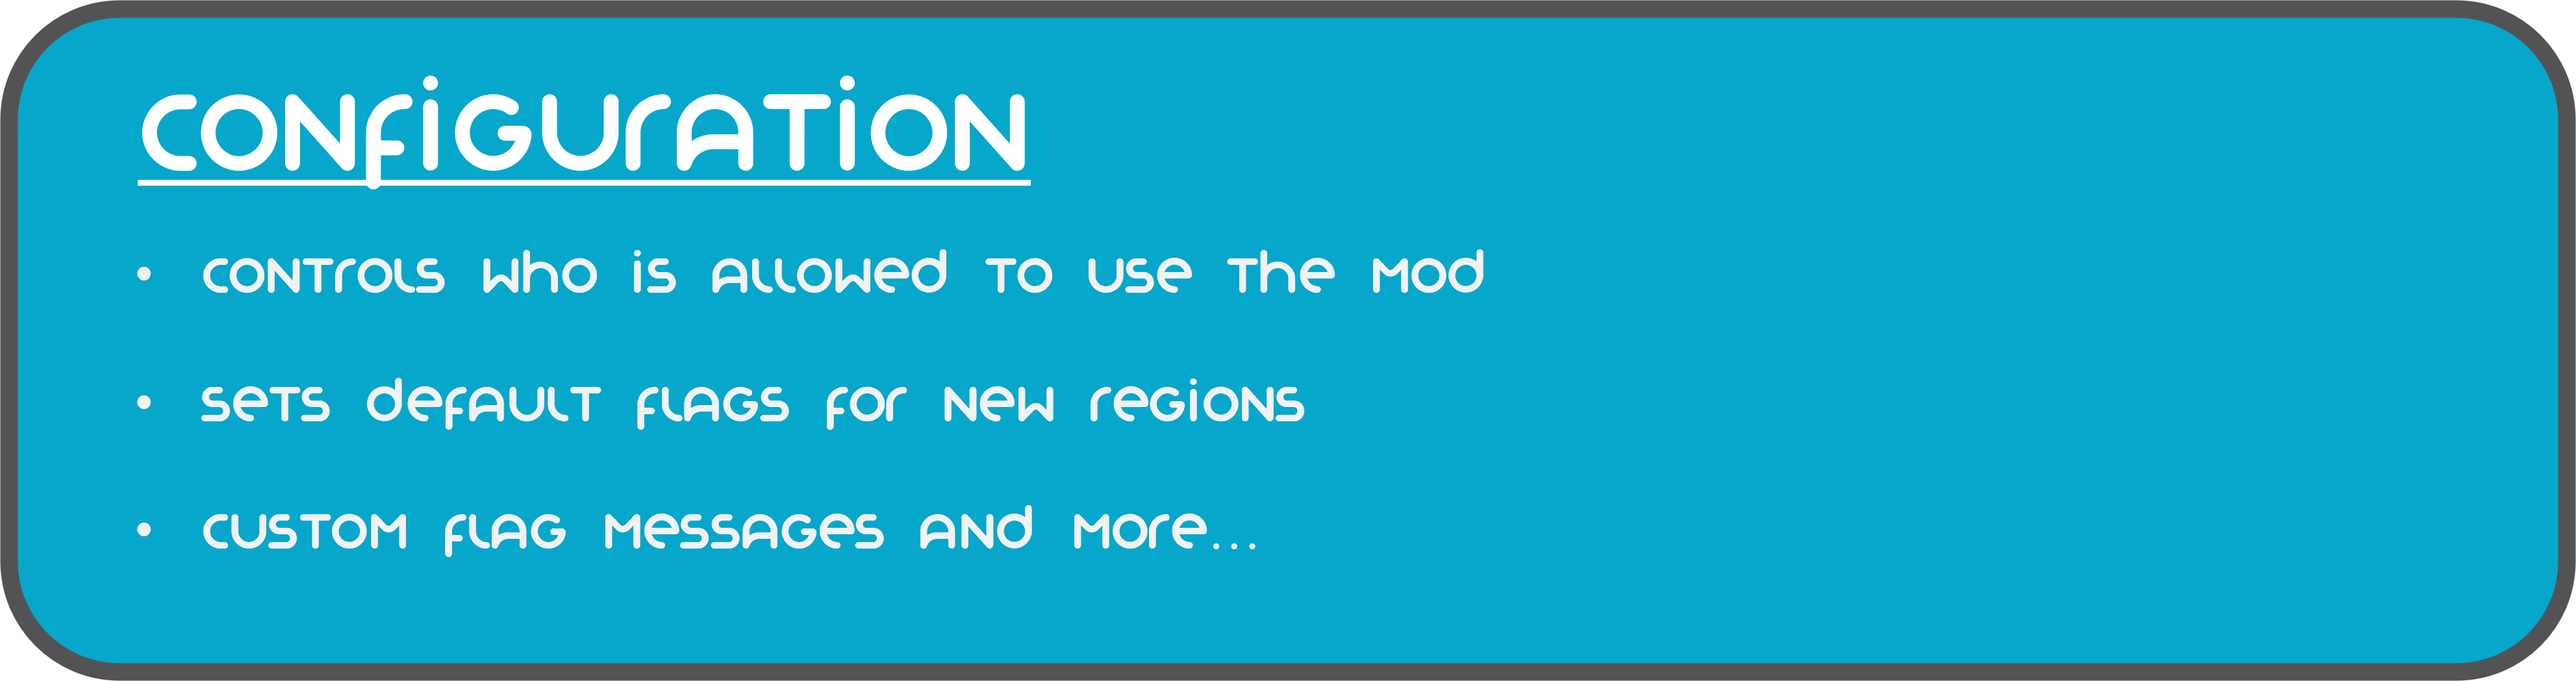
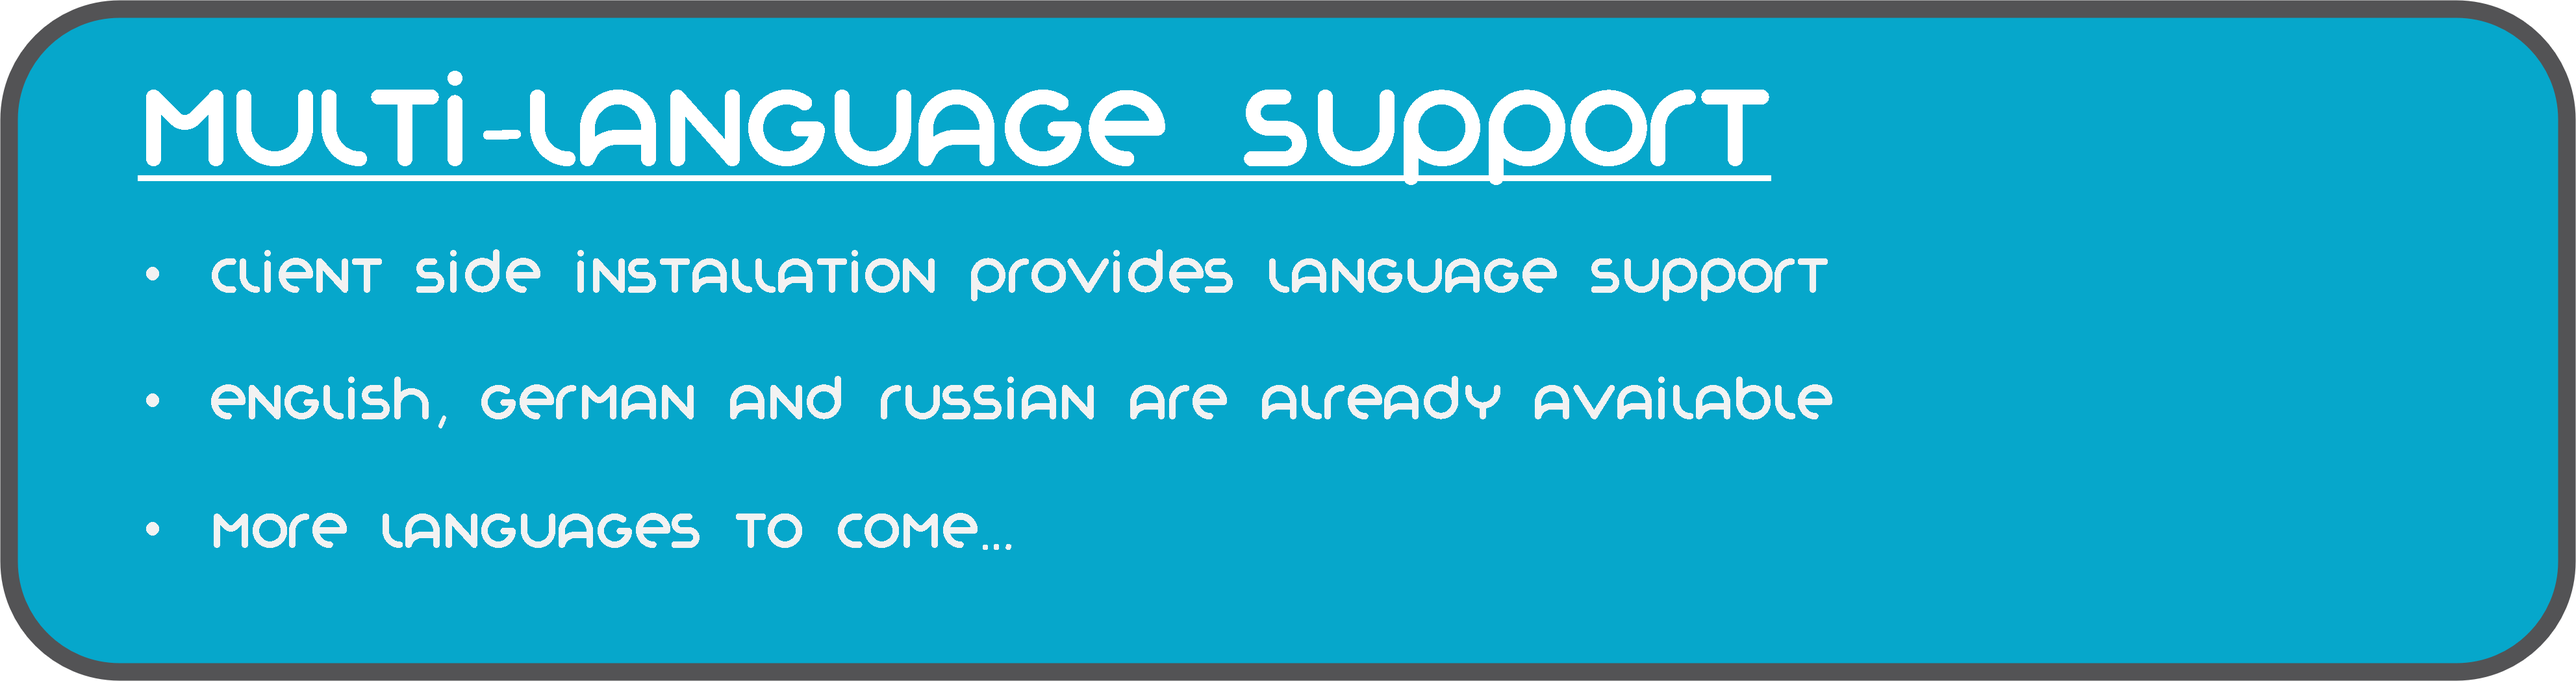
update mod feature images

diff --git a/web-resources/mod-description.md b/web-resources/mod-description.md
@@ -1,8 +1,11 @@
 # Yet Another World Protector
 
-Yet Another World Protector (YAWP) is _the_ admin tool to protect your minecraft server!
+Yet Another World Protector (YAWP) is _the_ admin tool to protect your minecraft server! Its available for both, (Neo-)
+Forge and Fabric.
 
-It allows admins (and permitted players) to protect their creations against various events/actions of players, mobs and
+YAWP designed to be used on dedicated servers, but can also be used in single player worlds and worlds opened to LAN.
+It allows admins (and players with assigned permission) to protect their creations against various events/actions of
+players, mobs and
 the environment.
 
 Create regions for your builds and apply region flags to protect them.
@@ -13,6 +16,8 @@ the [WorldGuard](https://dev.bukkit.org/projects/worldguard) plugin.
 
 Join our discord if you have any questions or suggestions: [YAWP Discord](https://discord.gg/d7hArKCUtm)
 
+*** 
+
 ![](https://raw.githubusercontent.com/Z0rdak/Yet-Another-World-Protector/online-pages/web-resources/yawp-feature-1.png)
 
 ***The mod is currently in its beta state, with many features not yet implemented but to come. These features will
@@ -22,6 +27,7 @@ This mod will be released for Minecraft versions 1.16.5+. If you are living in t
 for Minecraft 1.12.2, I suggest looking into
 using [WorldDefender](https://www.curseforge.com/minecraft/mc-mods/world-defender).
 
+*** 
 ![](https://raw.githubusercontent.com/Z0rdak/Yet-Another-World-Protector/online-pages/web-resources/yawp-feature-3.png "Region types")
 
 In YAWP there are three different kinds of regions to protect your server:
@@ -46,7 +52,7 @@ They can't be created manually. They are in fact automatically generated with ea
 Region for the overworld is created when the server is created.
 
 The following Dimensional Regions are created whenever a player travels to a new dimension, thus creating the new
-dimension with their respective Dimensional Region.
+dimension with their respective Dimensional Region. Modded dimensions are supported as well.
 
 ## Local Regions
 
@@ -62,8 +68,10 @@ To create a Local Regions you will need to have the permission of the parent reg
 by marking the area with a RegionMarker and executing the corresponding command or by just using a command without the
 RegionMarker.
 
-For now the area of a region can only be defined as in a cuboid shape, but I am planning to add more shapes for region
-areas in future updates.
+For now the area of a region can be defined as in a cuboid or spherical shape, but I am planning to add more shapes for
+region areas in future updates.
+
+***
 
 ## Properties of regions
 
@@ -81,6 +89,8 @@ configuration. For more information, visit the wiki.
 
 ![](https://raw.githubusercontent.com/Z0rdak/Yet-Another-World-Protector/online-pages/web-resources/yawp-feature-4.png "Region hierarchy")
 
+***
+
 TBD
 
 ![](https://raw.githubusercontent.com/Z0rdak/Yet-Another-World-Protector/online-pages/web-resources/yawp-feature-5.png "Region groups")
@@ -92,6 +102,8 @@ Owners and Members can be individual players or a [team](https://minecraft.fando
 
 Groups allow you assign specific region permissions to different players and teams. Currently, there are only two
 default groups: **owners** and **members**.
+
+***
 
 ![](https://raw.githubusercontent.com/Z0rdak/Yet-Another-World-Protector/online-pages/web-resources/yawp-feature-6.png "")
 
@@ -105,10 +117,19 @@ update, so you can define your own groups and permissions.
 
 If you have trouble with setting up regions, visit the discord for help.
 
+*** 
+
 ![](https://raw.githubusercontent.com/Z0rdak/Yet-Another-World-Protector/online-pages/web-resources/yawp-feature-7.png "")
 
-You can add rules to Regions with flags. If the flag is defined, it prevents the defined action associated with the
-flag.
+Flags are the core of the region protection system. They define which actions are allowed or denied in a region. Flags
+can be set to
+
+- **Allowed**, to allow the corresponding action,
+- **Denied**, to deny the corresponding action,
+- **Disabled**, to disable the specific flag for flag checks.
+
+Child regions inherit the flags from their parent regions. It is further possible to override the flag state for child
+regions by setting the **override** property of the flag of the parent region accordingly.
 
 See the [Flags](https://github.com/Z0rdak/Yet-Another-World-Protector/wiki/Flags) page for more details about the
 different flags.
@@ -118,6 +139,8 @@ here: [Flag suggestions](https://github.com/Z0rdak/Yet-Another-World-Protector/i
 
 There will also be more complex flags in the future. Like *ListFlag* which will allow you to define a list of allowed
 blocks/entities/.. which are forbidden in the context of a flag.
+
+***
 
 ![](https://raw.githubusercontent.com/Z0rdak/Yet-Another-World-Protector/online-pages/web-resources/yawp-feature-2.png "Interactive CLI")
 
@@ -129,11 +152,18 @@ blocks/entities/.. which are forbidden in the context of a flag.
 
 ![](https://raw.githubusercontent.com/Z0rdak/Yet-Another-World-Protector/online-pages/web-resources/local-interactive-cli-info.png)
 
+*** 
+
 ![](https://raw.githubusercontent.com/Z0rdak/Yet-Another-World-Protector/online-pages/web-resources/yawp-feature-8.png)
 
 The commands of mod are also designed to be used by the server console and can be executed by command blocks.
 
 This allows you to automate region setups, add/remove players, enable or disable regions, etc.
+***
+
+API
+
+***
 
 ![](https://raw.githubusercontent.com/Z0rdak/Yet-Another-World-Protector/online-pages/web-resources/yawp-feature-9.png)
 
@@ -144,6 +174,7 @@ Starting with mod version 0.0.2.9-beta2 and Minecraft Version 1.19.4, YAWP provi
 
 If your language is not yet supported, feel free to reach out to me via discord or issue a pull request via github! :)
 
+*** 
 ![](https://raw.githubusercontent.com/Z0rdak/Yet-Another-World-Protector/online-pages/web-resources/yawp-feature-10.png)
 
 The configuration of the mod allows you to control which is allowed to use the mod, sets default flags for Local and
@@ -157,6 +188,8 @@ The configuration is split in different files, covering different topics.
 
 Since YAWP is a server-side mod, the config for it is found in the directory `/serverconfig` in your minecraft world
 directory.
+
+*** 
 
 [![YAWP Wiki](https://raw.githubusercontent.com/Z0rdak/Yet-Another-World-Protector/online-pages/web-resources/yawp-feature-11.png 'YAWP Wiki')](https://github.com/Z0rdak/Yet-Another-World-Protector/wiki)
 
@@ -179,14 +212,12 @@ ___
 There are many more features to come. The mod is in active development!
 The following list is not comprehensive.
 
-* Different flag types (List, Effect, ...)
+* Different flag types (List, Effect, ...) for more granular control
+* Data pack driven flag configuration
+* Region boundary visualization
 * Define your own region groups for more granular management of regions (LuckPerms)
 * More granular permission system (combined with the more granular group features)
 * Region templates for easier managing same regions with different spatial properties
 * Region triggers for entering/leaving a region (for displaying messages, executing commands, etc)*
-
-
-* API to manage regions for other mods
-* Events for common regions actions (e.g. creating, deleting regions, adding owners, etc.)
-  Regions with different shapes (Cylinder, Prism, 3DPolygon)*
+* Regions with different shapes (Cylinder, Prism, 3DPolygon)*
 * \<your suggestion here\>
